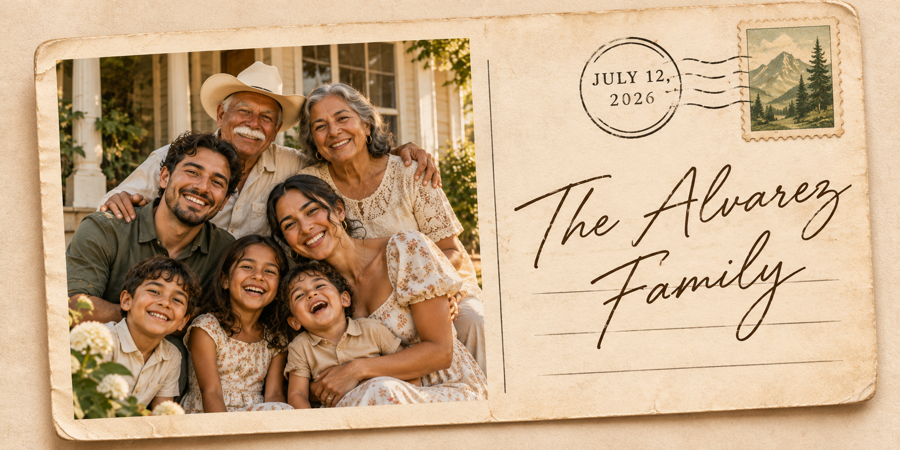
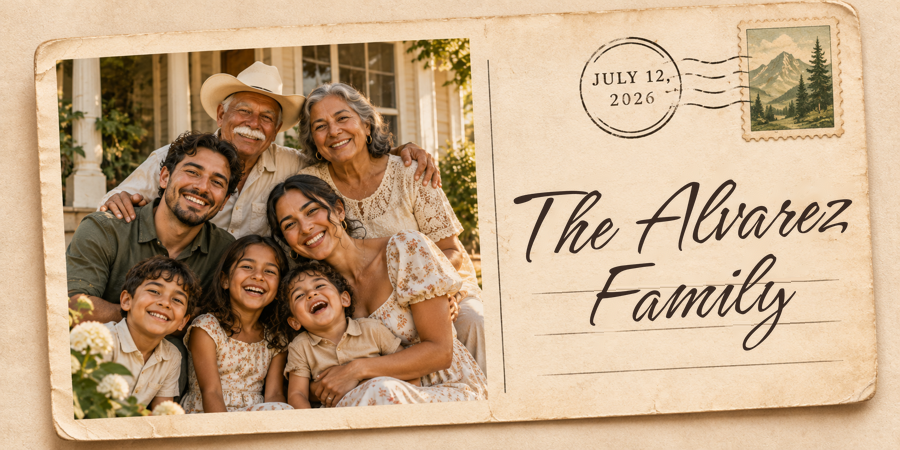
Postcard: Hurricane font, measured placement, redrawn mockup; Monogram: live initials/title/date, redrawn mockup
Claude-Session: https://claude.ai/code/session_01Bhf7YP6LJNB8XwLixJ2STd

Changed region(s): [[0.56, 0.3733, 0.9644, 0.7778]]

diff --git a/app/g/[token]/page.tsx b/app/g/[token]/page.tsx
@@ -601,7 +601,7 @@ export default function GalleryViewPage() {
         const one = words.length <= 1
         const l1 = one ? (words[0] || '') : words.slice(0, -1).join(' ')
         const l2 = one ? '' : words[words.length - 1]
-        const sc: CSSProperties = { fontFamily: "'Qwigley', 'Homemade Apple', cursive", fontWeight: 400, fontStyle: 'normal', textTransform: 'none', letterSpacing: 0, fill: 'currentColor', color: '#3A2A22', pointerEvents: 'auto' }
+        const sc: CSSProperties = { fontFamily: "'Hurricane', 'Homemade Apple', cursive", fontWeight: 400, fontStyle: 'normal', textTransform: 'none', letterSpacing: 0, fill: 'currentColor', color: '#3A2A22', pointerEvents: 'auto' }
         const pm: CSSProperties = { ...sc, fontFamily: "'Playfair Display', Georgia, serif", fontWeight: 500, color: '#2A2018' }
         const sub = coverSub ? String(coverSub).toUpperCase() : ''
         const ci = sub.indexOf(',')
@@ -610,7 +610,7 @@ export default function GalleryViewPage() {
         const pmL: string[] = !sub ? [] : ci > 0 ? [sub.slice(0, ci + 1).trim(), sub.slice(ci + 1).trim()] : sw.length > 1 ? [sw.slice(0, half).join(' '), sw.slice(half).join(' ')] : [sub]
         return (
           <div className="relative w-full overflow-hidden" style={{ aspectRatio: '2 / 1', minHeight: 300, containerType: 'inline-size', background: '#E8D5BA' }}>
-            <link rel="stylesheet" href="https://fonts.googleapis.com/css2?family=Qwigley&family=Playfair+Display:wght@500&display=swap" />
+            <link rel="stylesheet" href="https://fonts.googleapis.com/css2?family=Hurricane&family=Playfair+Display:wght@500&display=swap" />
             <div className="absolute overflow-hidden" style={{ left: '6.92cqw', top: '5.16cqw', width: '46.67cqw', height: '40.67cqw', transform: 'rotate(-3deg)', background: pal.line }}>
               <div className="absolute inset-0">{imgEl}</div>
             </div>
@@ -620,8 +620,8 @@ export default function GalleryViewPage() {
             <svg className="absolute inset-0 h-full w-full" viewBox="0 0 900 450" style={{ pointerEvents: 'none' }} aria-hidden="true">
               {pmL[0] && <text data-gk="brand" x="631" y={pmL[1] ? 84 : 99} textAnchor="middle" style={{ ...pm, fontSize: 17 }} textLength={Math.min(80, 10 * pmL[0].length)} lengthAdjust="spacing">{pmL[0]}</text>}
               {pmL[1] && <text data-gk="brand" x="631" y="105" textAnchor="middle" style={{ ...pm, fontSize: 17 }} textLength={Math.min(80, 10.8 * pmL[1].length)} lengthAdjust="spacing">{pmL[1]}</text>}
-              {l1 && <text data-gk="title" x="685.0" y="237.0" textAnchor="middle" transform="rotate(-4.5 685.0 237.0)" style={{ ...sc, fontSize: 105 }} textLength={Math.min(331, 30.05 * l1.length)} lengthAdjust="spacingAndGlyphs">{l1}</text>}
-              {l2 && <text data-gk="title2" x="670.3" y="289.7" textAnchor="middle" transform="rotate(-4.5 670.3 289.7)" style={{ ...sc, fontSize: 105 }} textLength={Math.min(265, 44.07 * l2.length)} lengthAdjust="spacingAndGlyphs">{l2}</text>}
+              {l1 && <text data-gk="title" x="682.5" y="244.0" textAnchor="middle" transform="rotate(-4.5 682.5 244.0)" style={{ ...sc, fontSize: 104.1 }} textLength={Math.min(333, 30.25 * l1.length)} lengthAdjust="spacingAndGlyphs">{l1}</text>}
+              {l2 && <text data-gk="title2" x="686.0" y="318.0" textAnchor="middle" transform="rotate(-4.5 686.0 318.0)" style={{ ...sc, fontSize: 98 }} textLength={Math.min(205, 34.17 * l2.length)} lengthAdjust="spacingAndGlyphs">{l2}</text>}
             </svg>
           </div>
         )
@@ -765,7 +765,7 @@ export default function GalleryViewPage() {
         const big = { position: 'absolute' as const, fontFamily: ff, fontWeight: 300, lineHeight: 1, color: 'rgba(255,255,255,0.58)', whiteSpace: 'nowrap' as const }
         return (
           <div className="relative w-full overflow-hidden" style={{ aspectRatio: '2 / 1', minHeight: 300, containerType: 'inline-size', background: pal.line }}>
-            <link rel="stylesheet" href="https://fonts.googleapis.com/css2?family=Cormorant+Garamond:ital,wght@0,300;0,400;0,500;1,300;1,400&display=swap" />
+            <link rel="stylesheet" href="https://fonts.googleapis.com/css2?family=Cormorant+Garamond:ital,wght@0,300;0,400;0,500;0,600;1,300;1,400&display=swap" />
             <div className="absolute inset-0">{imgEl}</div>
             <div className="absolute inset-0" style={{ background: 'linear-gradient(to bottom, rgba(0,0,0,0) 55%, rgba(0,0,0,0.28))' }} />
             {pair ? (
@@ -781,8 +781,8 @@ export default function GalleryViewPage() {
             )}
             <h1 className="sr-only">{coverTitle}</h1>
             <svg className="absolute inset-0 h-full w-full" viewBox="0 0 900 450" style={{ pointerEvents: 'none' }} aria-hidden="true">
-              <text data-gk="title" x="454" y="402.6" textAnchor="middle" style={{ fontFamily: ff, fontWeight: 500, fontSize: 28.4, fill: '#fff', textTransform: 'none', pointerEvents: 'auto' }} textLength={Math.min(264, 18.86 * Math.max(String(coverTitle).length, 1))} lengthAdjust="spacing">{coverTitle}</text>
-              {coverSub && <text data-gk="brand" x="453.5" y="425.2" textAnchor="middle" style={{ fontFamily: ff, fontWeight: 500, fontSize: 9.4, fill: 'rgba(255,255,255,0.85)', textTransform: 'uppercase', pointerEvents: 'auto' }} textLength={Math.min(215, 11.94 * String(coverSub).length)} lengthAdjust="spacing">{String(coverSub).toUpperCase()}</text>}
+              <text data-gk="title" x="454.0" y="402.6" textAnchor="middle" style={{ fontFamily: ff, fontWeight: 600, fontSize: 29.73, fill: '#F9EAD6', textTransform: 'none', fontVariantNumeric: 'lining-nums', pointerEvents: 'auto' }} textLength={Math.min(266, 19 * Math.max(String(coverTitle).length, 1))} lengthAdjust="spacing">{coverTitle}</text>
+              {coverSub && <text data-gk="brand" x="454.75" y="425.55" textAnchor="middle" style={{ fontFamily: ff, fontWeight: 600, fontSize: 10.04, fill: 'rgba(244,230,212,0.95)', textTransform: 'uppercase', fontVariantNumeric: 'lining-nums', pointerEvents: 'auto' }} textLength={Math.min(220.5, 12.25 * String(coverSub).length)} lengthAdjust="spacing">{String(coverSub).toUpperCase()}</text>}
             </svg>
           </div>
         )
